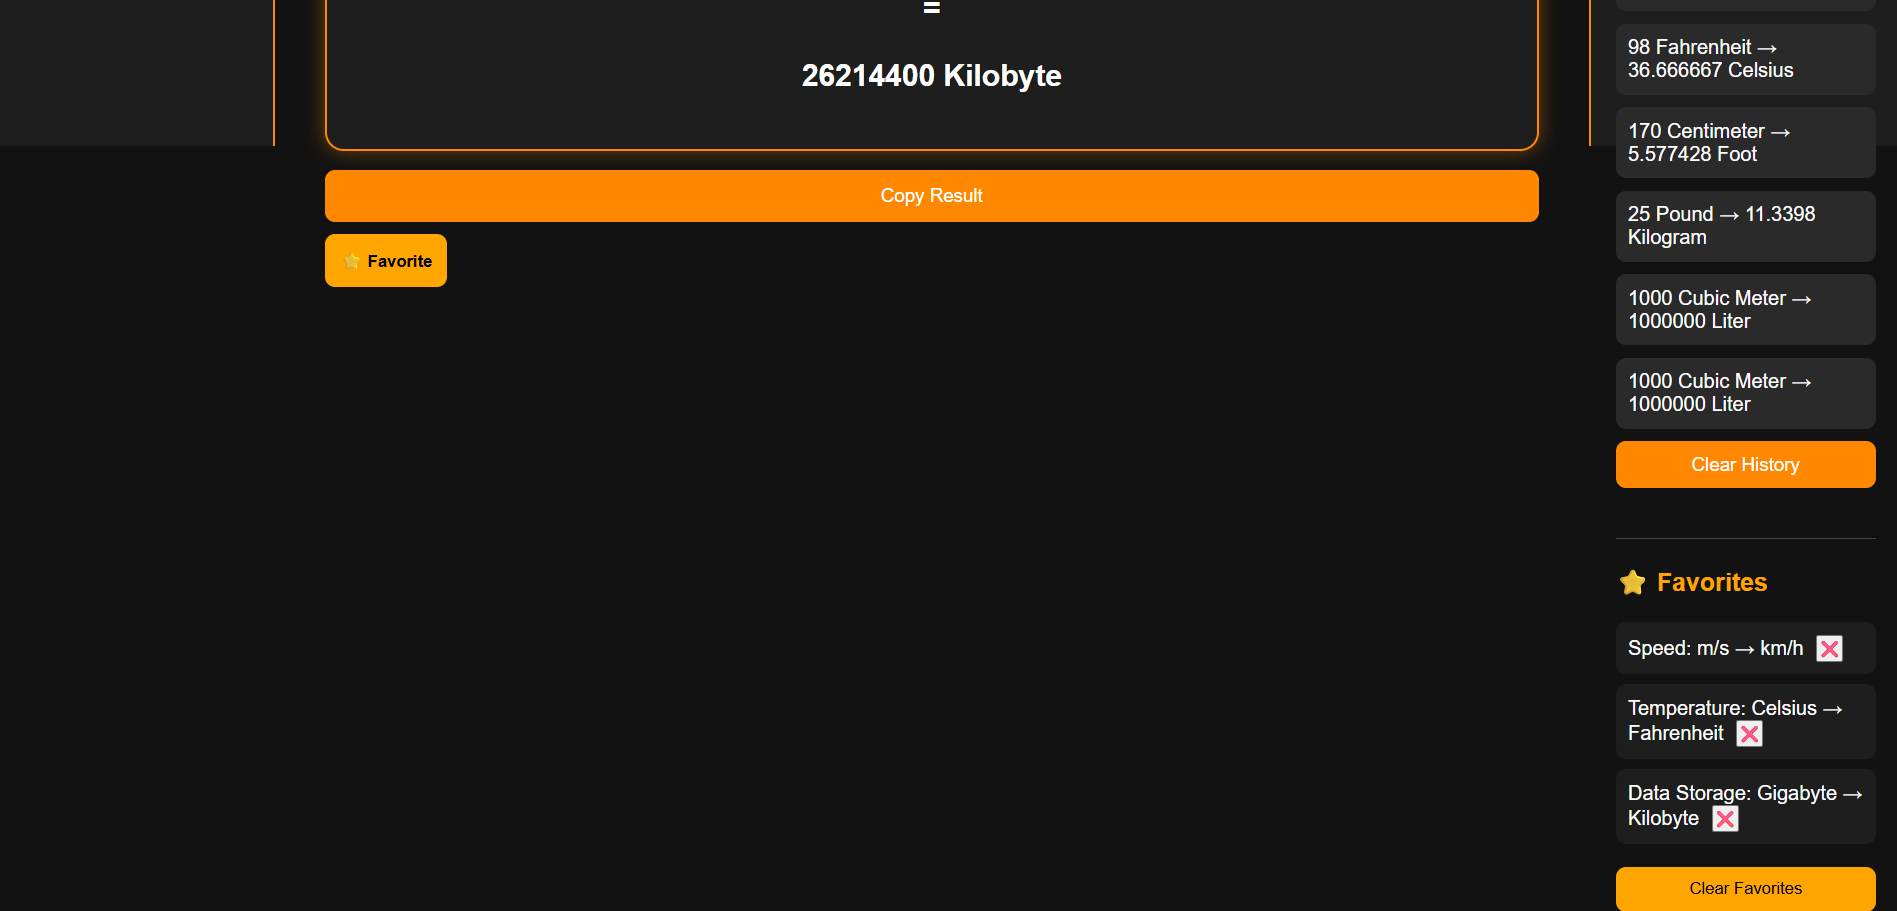
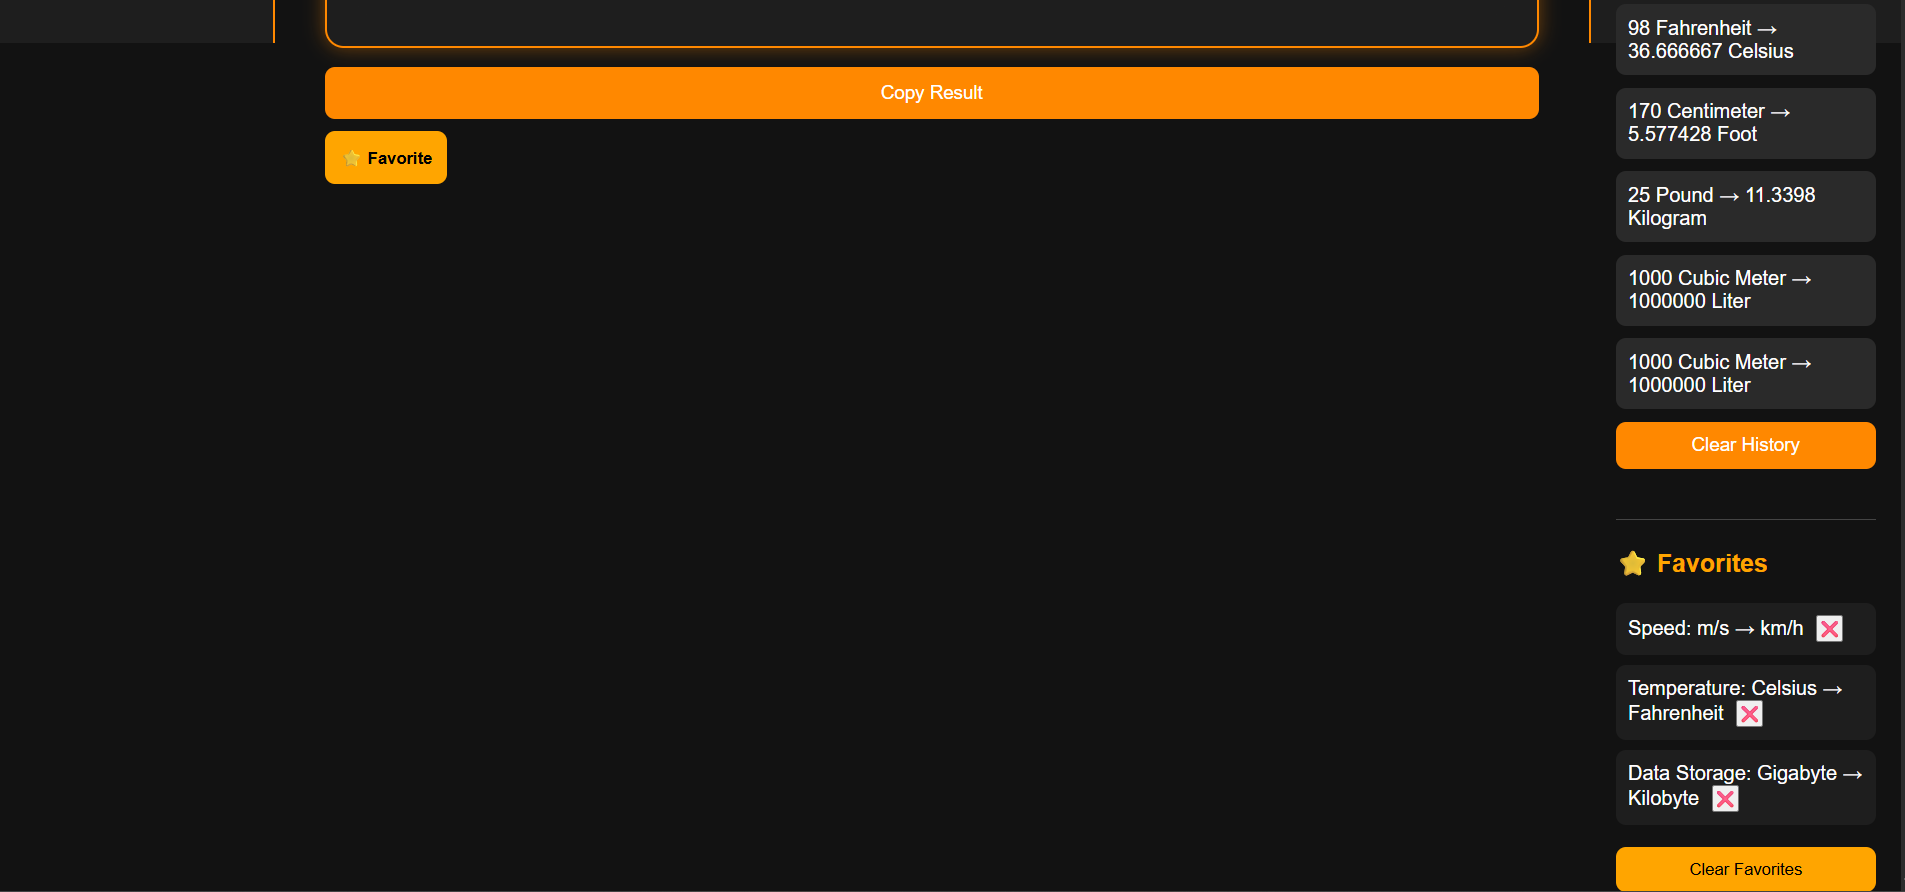
V3.0 Add save favorites, auto-load, delete, clear favorites and fixing the errors in readme

diff --git a/README.md b/README.md
@@ -23,11 +23,11 @@
 ## 📸 Preview
 
 <p align="center">
-  <img src="screenshot/unit_convertorV3_0upper.png" alt="Converter UI" width="900"/>
+  <img src="screenshot/unit_converterV3.0upper.png" alt="Converter UI" width="900"/>
 </p>
 
 <p align="center">
-  <img src="screenshot/unit_converterV3_0lower.png" alt="Favorites Panel" width="900"/>
+  <img src="screenshot/unit_converterV3.0lower.png" alt="Favorites Panel" width="900"/>
 </p>
 
 ---